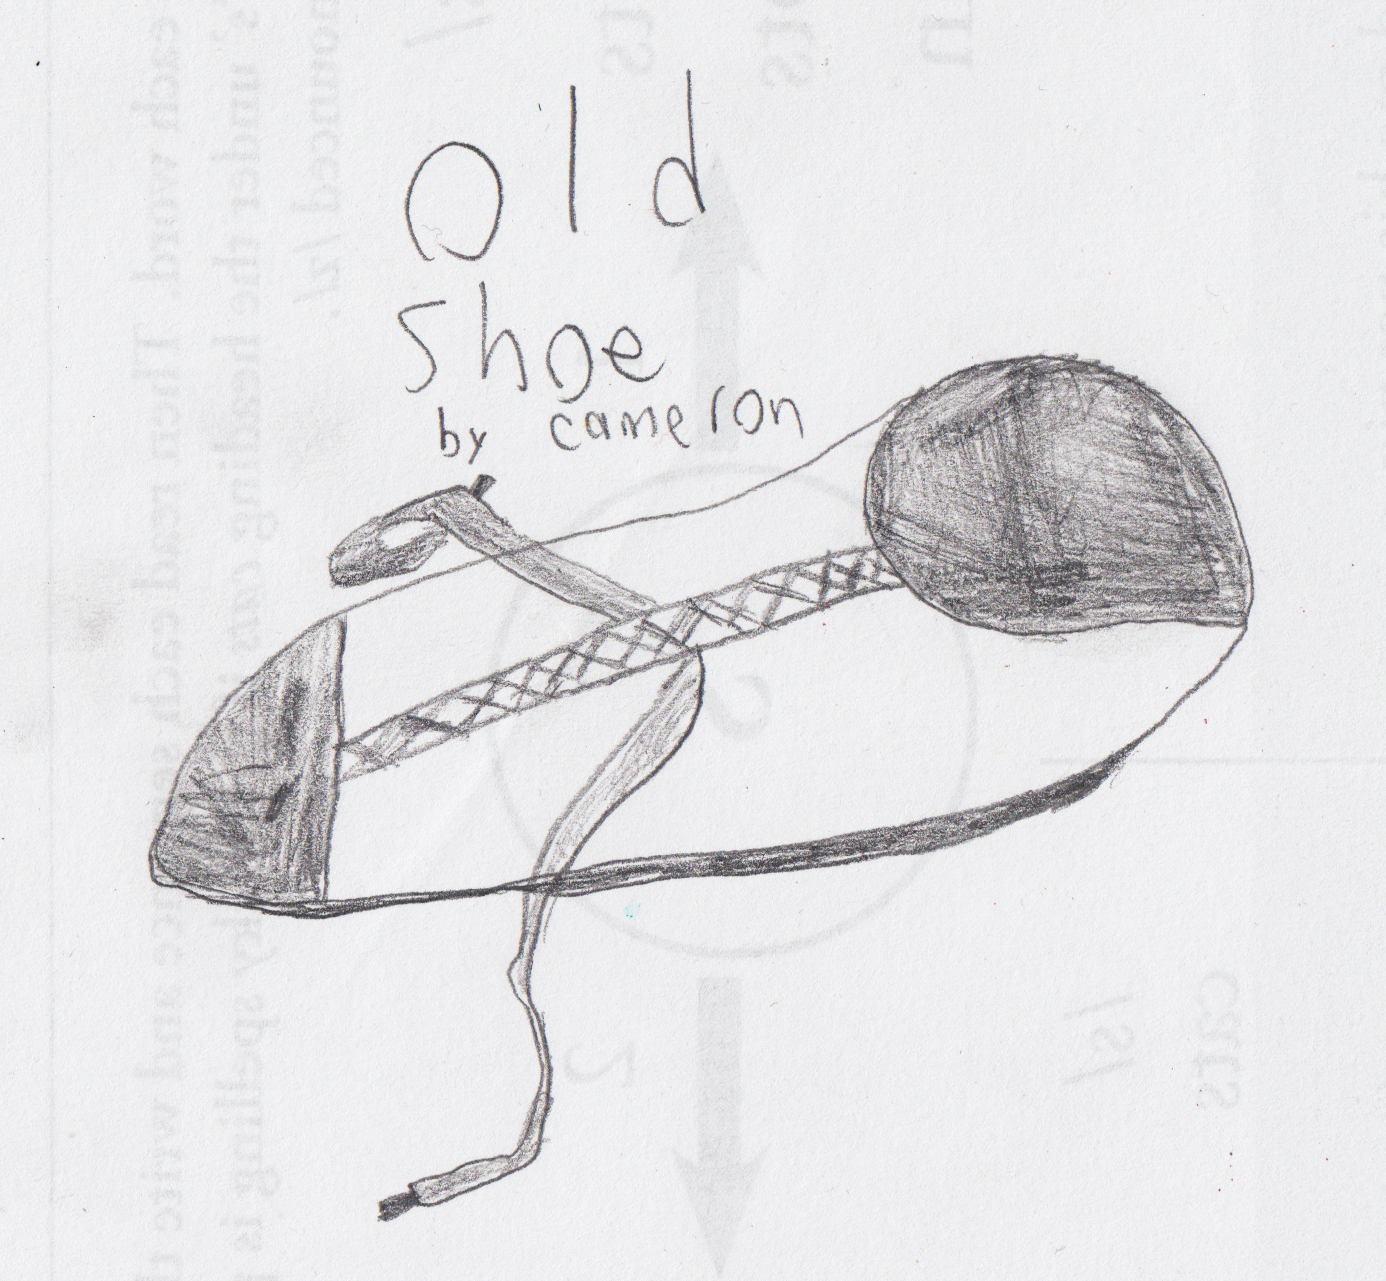
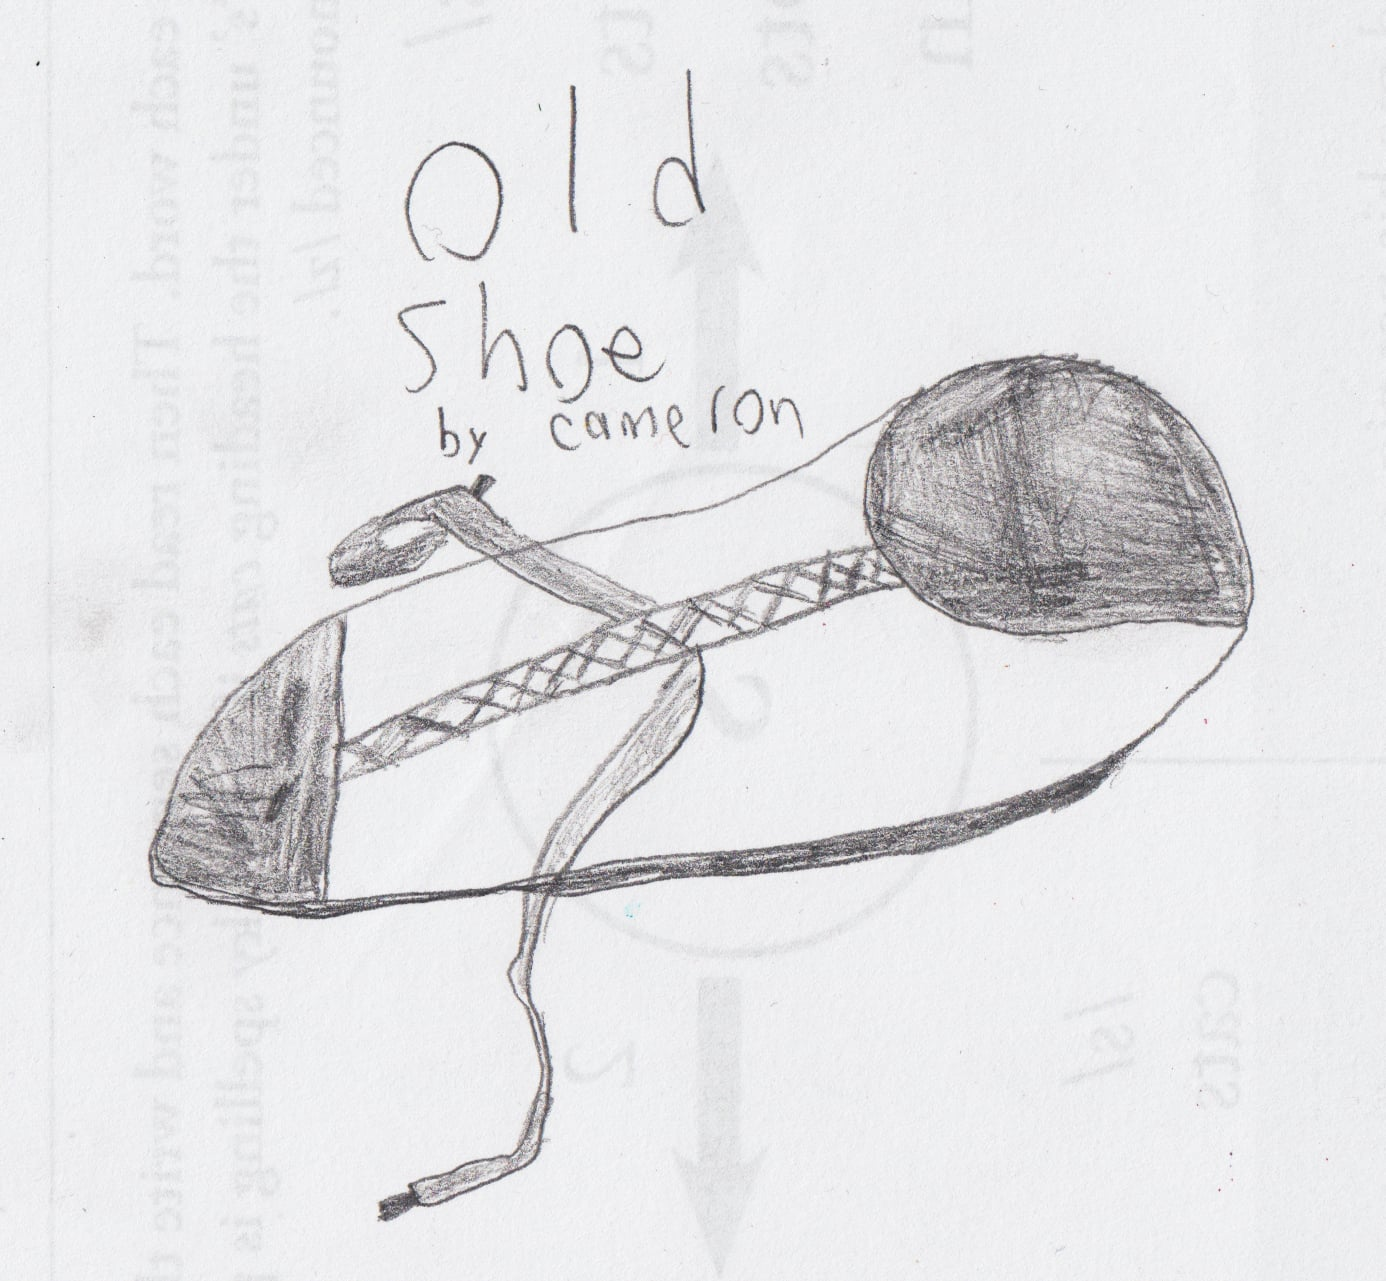
Auto-optimize artwork JPGs on commit
Adds scripts/optimize-artwork.mjs (sharp) and wires it to a pre-commit
hook via simple-git-hooks. Resizes JPGs wider than 2000px to 2000px and
re-encodes JPGs over 1MB with mozjpeg q85, in place. PNG/WebP are left
alone so extensions never change.

Existing five pieces are recompressed in the same commit: ~24MB → ~2.6MB
on disk with no visible quality change after Astro's responsive pipeline.

diff --git a/README.md b/README.md
@@ -44,6 +44,18 @@ npm run dev      # opens http://localhost:4321
 | `npm run dev`      | Local preview at `localhost:4321`            |
 | `npm run build`    | Build the static site to `./dist/`           |
 | `npm run preview`  | Preview the built site locally               |
+| `npm run optimize` | Resize/recompress oversized JPGs in `src/assets/artwork/` |
+
+## How image optimization works
+
+A `pre-commit` git hook runs `npm run optimize` automatically. It resizes
+any JPG wider than 2000px down to 2000px and re-encodes JPGs larger than
+1MB with mozjpeg at q85, in place. Files that are already small are left
+alone. PNG and WebP are skipped (so the extension never changes).
+
+This keeps the repo small without anyone having to think about it. The
+hook is registered via `simple-git-hooks` on `npm install` — if it ever
+gets out of sync, run `npx simple-git-hooks`.
 
 ## Project layout
 